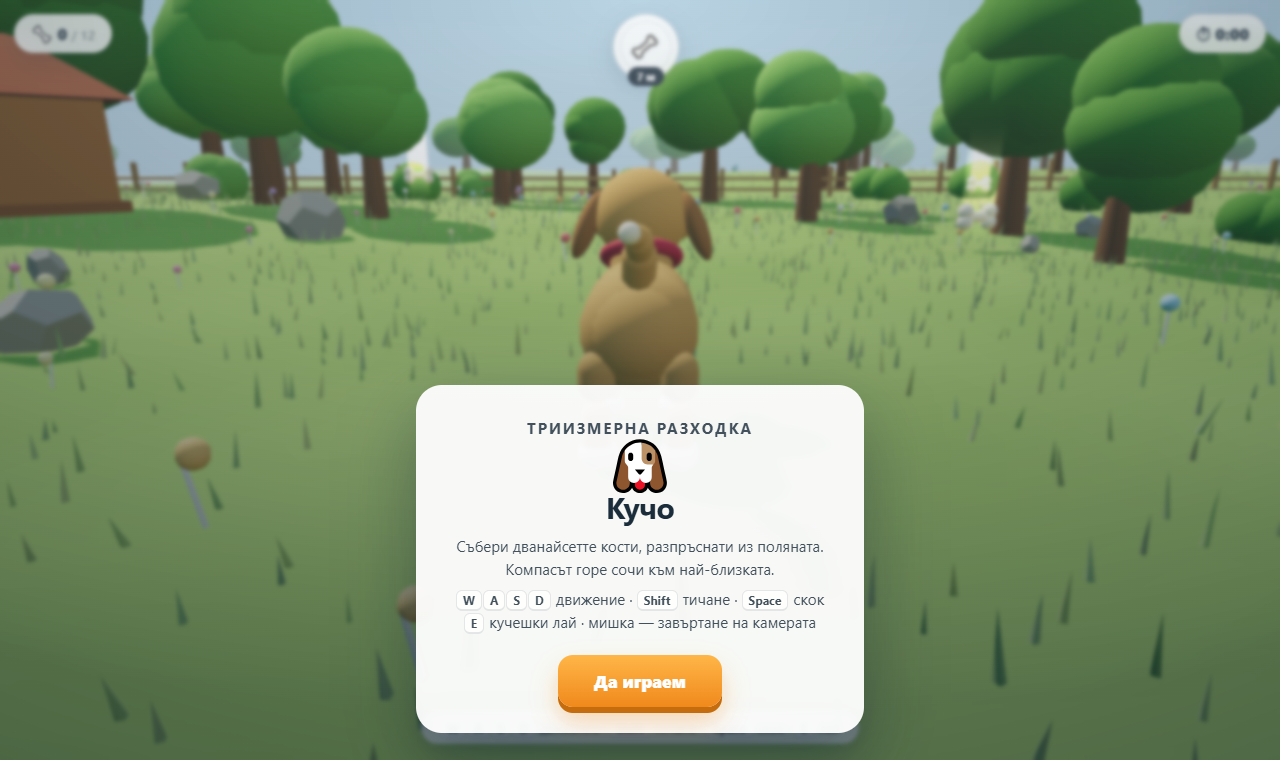
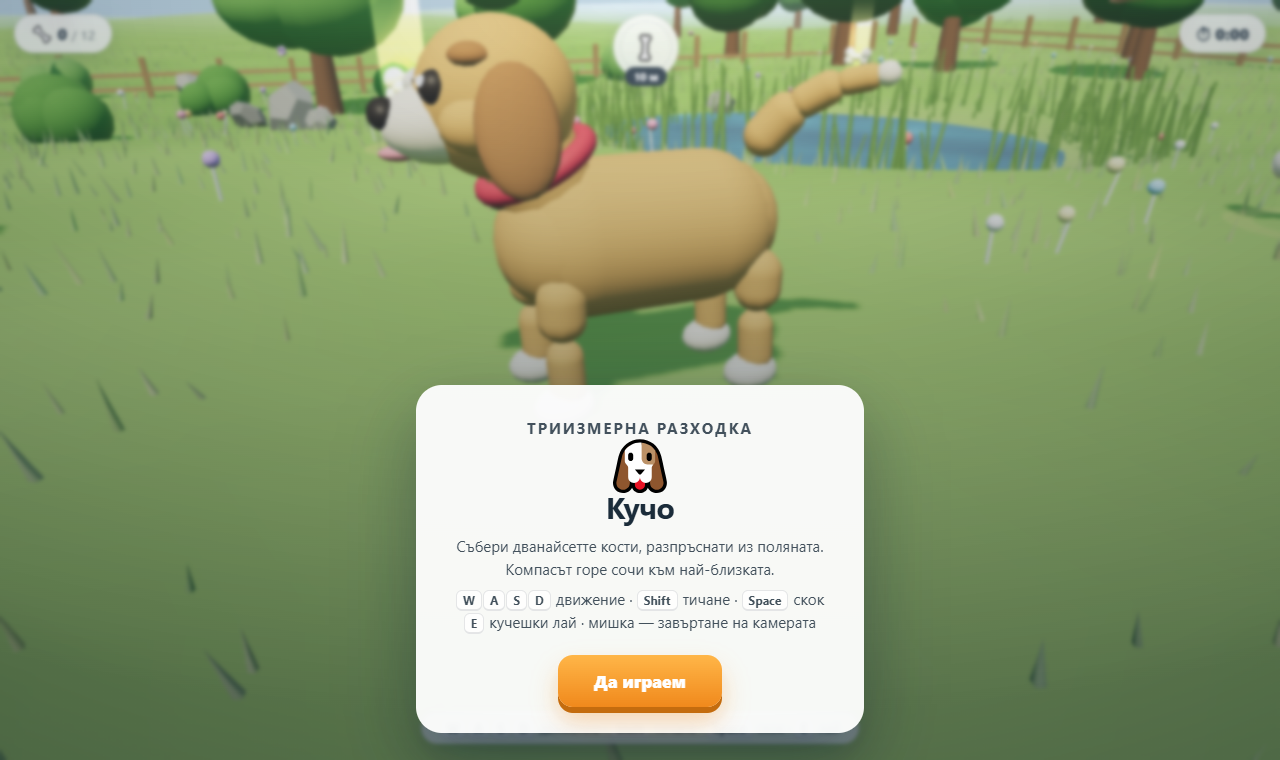
По-добра рамка на камерата в началото и нова снимка

diff --git a/game.js b/game.js
@@ -1619,7 +1619,7 @@ function updateCamera(dt) {
   }
   if (closeUp) { camYaw += dt * 0.2; }
 
-  var dist = closeUp ? 8.2 : 9.4;
+  var dist = closeUp ? 8.8 : 9.4;
   var height = closeUp ? 2.5 : 4.1;
 
   var tx = DOG.x + Math.sin(camYaw) * dist;
@@ -1643,7 +1643,7 @@ function updateCamera(dt) {
   }
 
   var dogGround = terrainH(DOG.x, DOG.z);
-  lookNow.set(DOG.x, dogGround + DOG.y * 0.6 + (closeUp ? -0.2 : 1.25), DOG.z);
+  lookNow.set(DOG.x, dogGround + DOG.y * 0.6 + (closeUp ? -0.45 : 1.25), DOG.z);
   var lk = 1 - Math.pow(0.0004, dt);
   camLook.x += (lookNow.x - camLook.x) * lk;
   camLook.y += (lookNow.y - camLook.y) * lk;
